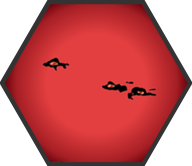
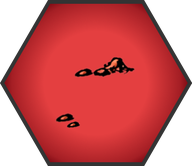
v0.21: Phil's redrawn plain and rough terrain tiles
plain-1 to plain-3 and rocky-1 are Phil's Affinity redraws (Plains1-3.png and
rough-terrain.png), fitted to the app's 192 x 166 tile format by the new
tools/fit-tile.py: cut on the middle of the dark border and masked to the hex.
Rough ground now stands out clearly from plain ground. The older rocky-2 and
rocky-3 are retired, since they looked too close to plain ground.

Claude-Session: https://claude.ai/code/session_01Xs8wjD3RBe7xarzalrymck

diff --git a/game.js b/game.js
@@ -1,21 +1,21 @@
 // Game screen: you (blue) against the AI (green). Renders the engine's view of the game and
 // turns taps into engine actions. No rules here; every option shown comes from the engine.
-import { RULES } from "./rules-config.js?v=0.20";
-import { mapById, seededRandom } from "./maps.js?v=0.20";
+import { RULES } from "./rules-config.js?v=0.21";
+import { mapById, seededRandom } from "./maps.js?v=0.21";
 import {
   newGame, applyAction, viewFor, reachableHexes, attackTargets, healTargets, harvestTargets,
   canSetUp, canPackUp, buildSites, buildableTypes, unitStats, livesAfterHit,
   firesBack, dropSites, factoryBuilds, upgradeOptions, crushingMoves, refreshKnowledge,
   STATE_FORMAT,
-} from "./engine.js?v=0.20";
-import { chooseAction, playout, DEFAULT_PERSONALITY } from "./ai.js?v=0.20";
-import { EVOLVED_PERSONALITIES } from "./ai-personalities.js?v=0.20";
-import { distance } from "./hex.js?v=0.20";
+} from "./engine.js?v=0.21";
+import { chooseAction, playout, DEFAULT_PERSONALITY } from "./ai.js?v=0.21";
+import { EVOLVED_PERSONALITIES } from "./ai-personalities.js?v=0.21";
+import { distance } from "./hex.js?v=0.21";
 import {
   renderBoard, boardBounds, loadTiles, preloadArt, unitImage, PLAYER_COLOURS,
-} from "./board.js?v=0.20";
-import { confirmDialog } from "./dialog.js?v=0.20";
-import { playSound, unlockSound, soundOn, setSoundOn } from "./sound.js?v=0.20";
+} from "./board.js?v=0.21";
+import { confirmDialog } from "./dialog.js?v=0.21";
+import { playSound, unlockSound, soundOn, setSoundOn } from "./sound.js?v=0.21";
 
 const HUMAN = 0;
 const AI_PLAYER = 1;
@@ -26,7 +26,7 @@ const EXTRAS_KEY = "mech-attack.game-extras";
 const RECENT_LIMIT = 8;
 // Generated maps are numbered from 1 up to this when picked at random.
 const NEW_MAP_RANGE = 99999;
-const ASSET_VERSION = "0.20";
+const ASSET_VERSION = "0.21";
 // Pause between AI actions you can see, and how long an explosion stays on screen.
 const AI_STEP_MS = 450;
 const EFFECT_MS = 500;

diff --git a/sw.js b/sw.js
@@ -1,7 +1,7 @@
 // Minimal offline-first service worker.
 // Bump the version in CACHE whenever you change the cached files, and keep ASSETS
 // in sync with the files the app needs to work offline.
-const CACHE = "mech-attack-v0.20";
+const CACHE = "mech-attack-v0.21";
 const UNIT_TYPES = [
   "scout-bike", "tank", "heavy-cannon", "artillery", "light-harvester", "light-medic",
 ];
@@ -11,7 +11,7 @@ const TOKEN_TYPES = [
   "attack-helicopter", "fighter", "infantry", "transporter",
 ];
 const TILES = [
-  "plain-1", "plain-2", "rocky-1", "rocky-2", "rocky-3", "mountain-1",
+  "plain-1", "plain-2", "plain-3", "rocky-1", "mountain-1",
   "chasm-n", "chasm-centre", "chasm-sw", "chasm-single",
 ];
 const SOUND_FILES = [
@@ -20,27 +20,27 @@ const SOUND_FILES = [
 const ASSETS = [
   ".",
   "index.html",
-  "styles.css?v=0.20",
-  "app.js?v=0.20",
-  "version.js?v=0.20",
-  "units.js?v=0.20",
-  "game.js?v=0.20",
-  "dialog.js?v=0.20",
-  "board.js?v=0.20",
-  "engine.js?v=0.20",
-  "ai.js?v=0.20",
-  "hex.js?v=0.20",
-  "maps.js?v=0.20",
-  "ai-personalities.js?v=0.20",
-  "rules-config.js?v=0.20",
-  "sound.js?v=0.20",
+  "styles.css?v=0.21",
+  "app.js?v=0.21",
+  "version.js?v=0.21",
+  "units.js?v=0.21",
+  "game.js?v=0.21",
+  "dialog.js?v=0.21",
+  "board.js?v=0.21",
+  "engine.js?v=0.21",
+  "ai.js?v=0.21",
+  "hex.js?v=0.21",
+  "maps.js?v=0.21",
+  "ai-personalities.js?v=0.21",
+  "rules-config.js?v=0.21",
+  "sound.js?v=0.21",
   "manifest.webmanifest",
   "icon.png",
   "favicon.png",
   "icon-maskable.png",
   "apple-touch-icon.png",
   "splash.jpg",
-  "tiles/tiles.json?v=0.20",
+  "tiles/tiles.json?v=0.21",
   ...TILES.map((t) => `tiles/${t}.png`),
   ...UNIT_TYPES.map((u) => `units/${u}.png`),
   ...TOKEN_TYPES.flatMap((u) => [`units/${u}-blue.svg`, `units/${u}-green.svg`]),

diff --git a/app.js b/app.js
@@ -1,9 +1,9 @@
 // Mech Attack - splash screen with a menu: play against the AI, or the units reference.
-import { VERSION, CHANGELOG } from "./version.js?v=0.20";
-import { GROUPS, STATS, UNITS, NOTES } from "./units.js?v=0.20";
-import { openGame, hasSavedGame, recentMaps, newMapId } from "./game.js?v=0.20";
-import { confirmDialog } from "./dialog.js?v=0.20";
-import { MAP_SIZES, MAP_SHAPES, shapeBlocks } from "./maps.js?v=0.20";
+import { VERSION, CHANGELOG } from "./version.js?v=0.21";
+import { GROUPS, STATS, UNITS, NOTES } from "./units.js?v=0.21";
+import { openGame, hasSavedGame, recentMaps, newMapId } from "./game.js?v=0.21";
+import { confirmDialog } from "./dialog.js?v=0.21";
+import { MAP_SIZES, MAP_SHAPES, shapeBlocks } from "./maps.js?v=0.21";
 
 // Register the service worker so the app is installable and works offline.
 // The relative path resolves correctly on the GitHub Pages /<slug>/ subpath.

diff --git a/evolve.js b/evolve.js
@@ -16,13 +16,13 @@
 // play the hand-tuned AI, and they are written out for the game to use.
 import { writeFileSync } from "node:fs";
 import { pathToFileURL } from "node:url";
-import { RULES } from "./rules-config.js?v=0.20";
-import { mapById, seededRandom, MAP_SHAPES } from "./maps.js?v=0.20";
+import { RULES } from "./rules-config.js?v=0.21";
+import { mapById, seededRandom, MAP_SHAPES } from "./maps.js?v=0.21";
 import {
   DEFAULT_PERSONALITY, randomPersonality, mutatePersonality, crossPersonalities,
   favouriteUnits,
-} from "./ai.js?v=0.20";
-import { runGame, withOverrides } from "./sim.js?v=0.20";
+} from "./ai.js?v=0.21";
+import { runGame, withOverrides } from "./sim.js?v=0.21";
 
 const DEFAULTS = { generations: 30, population: 16, games: 8, seed: 1 };
 // Generated maps in the pool (map-1 .. map-N of every shape), alongside fixed map 1.

diff --git a/sim.js b/sim.js
@@ -10,10 +10,10 @@
 // The first player alternates between games so neither colour always moves first.
 import { writeFileSync } from "node:fs";
 import { pathToFileURL } from "node:url";
-import { RULES } from "./rules-config.js?v=0.20";
-import { FIXED_MAP_1, buildMap, mapById } from "./maps.js?v=0.20";
-import { newGame, applyAction, viewFor, unitStats } from "./engine.js?v=0.20";
-import { chooseAction, DEFAULT_PERSONALITY } from "./ai.js?v=0.20";
+import { RULES } from "./rules-config.js?v=0.21";
+import { FIXED_MAP_1, buildMap, mapById } from "./maps.js?v=0.21";
+import { newGame, applyAction, viewFor, unitStats } from "./engine.js?v=0.21";
+import { chooseAction, DEFAULT_PERSONALITY } from "./ai.js?v=0.21";
 
 const DEFAULT_GAMES = 100;
 const DEFAULT_SEED = 1;

diff --git a/ai.js b/ai.js
@@ -11,8 +11,8 @@ import {
   reachableHexes, attackTargets, healTargets, harvestTargets, canUnload, canSetUp, canPackUp,
   buildSites, unitStats, unitsOf, defenceOf, livesAfterHit, firesBack, canHit, applyAction,
   viewFor, factoriesOf, factoryBuilds, upgradeOptions, canCapture, dropSites,
-} from "./engine.js?v=0.20";
-import { neighbourKeys, distance } from "./hex.js?v=0.20";
+} from "./engine.js?v=0.21";
+import { neighbourKeys, distance } from "./hex.js?v=0.21";
 
 // Score for an attack that costs no life now but sets up a combined attack this turn.
 const SETUP_ATTACK_SCORE = 1;

diff --git a/index.html b/index.html
@@ -13,7 +13,7 @@
   <link rel="preconnect" href="https://fonts.gstatic.com" crossorigin />
   <link rel="stylesheet"
     href="https://fonts.googleapis.com/css2?family=Orbitron:wght@600;800&display=swap" />
-  <link rel="stylesheet" href="styles.css?v=0.20" />
+  <link rel="stylesheet" href="styles.css?v=0.21" />
 </head>
 <body>
   <section id="splash" class="splash" aria-label="Mech Attack">
@@ -113,6 +113,6 @@
     </div>
   </div>
 
-  <script src="app.js?v=0.20" type="module"></script>
+  <script src="app.js?v=0.21" type="module"></script>
 </body>
 </html>

diff --git a/board.js b/board.js
@@ -1,7 +1,7 @@
 // Draws the game board as SVG from one player's view of the game, plus what the UI wants
 // highlighted. No rules here: everything shown comes from the engine's view.
-import { parseKey, toPixel } from "./hex.js?v=0.20";
-import { unitStats, defenceOf } from "./engine.js?v=0.20";
+import { parseKey, toPixel } from "./hex.js?v=0.21";
+import { unitStats, defenceOf } from "./engine.js?v=0.21";
 
 // Hex corner radius in SVG units. Tiles are drawn 2 x HEX_SIZE wide.
 export const HEX_SIZE = 50;

diff --git a/version.js b/version.js
@@ -1,8 +1,15 @@
-export const VERSION = "v0.20";
+export const VERSION = "v0.21";
 
 // Newest first. Bump VERSION and prepend an entry on EVERY publish, so the live
 // app always shows exactly what shipped. Dates are YYYY-MM-DD.
 export const CHANGELOG = [
+  {
+    version: "v0.21",
+    date: "2026-10-29",
+    notes: [
+      "New plain and rough terrain art redrawn by Phil, so rough ground stands out clearly from plain ground.",
+    ],
+  },
   {
     version: "v0.20",
     date: "2026-10-29",

diff --git a/tools/art-preview.html b/tools/art-preview.html
@@ -128,9 +128,8 @@
   const BUILT_IN_TILES = [
     { file: "plain-1.png", terrain: "plain" },
     { file: "plain-2.png", terrain: "plain" },
+    { file: "plain-3.png", terrain: "plain" },
     { file: "rocky-1.png", terrain: "rocky" },
-    { file: "rocky-2.png", terrain: "rocky" },
-    { file: "rocky-3.png", terrain: "rocky" },
     { file: "mountain-1.png", terrain: "mountain" },
     { file: "chasm-n.png", terrain: "chasm" },
     { file: "chasm-centre.png", terrain: "chasm" },

diff --git a/engine.js b/engine.js
@@ -15,7 +15,7 @@
 //   crystals they have seen before.
 import {
   neighbourKeys, distance, lineOfSight, cheapestPaths, pathTo, parseKey, key, DIRECTIONS,
-} from "./hex.js?v=0.20";
+} from "./hex.js?v=0.21";
 
 // Factories, infantry and transporters (format 6):
 // - Every factory is a unit. Each player owns a home factory (players[p].factoryId); bigger

diff --git a/maps.js b/maps.js
@@ -5,7 +5,7 @@
 import {
   key, clusterCentre, clusterHexes, DIRECTION_NAMES, cheapestPaths, distance, neighbourKeys,
   toPixel,
-} from "./hex.js?v=0.20";
+} from "./hex.js?v=0.21";
 
 // Fixed map 1: 12 clusters, 84 hexes, about 11 hexes wide and 11 tall.
 // Paired clusters (point-reflected through the middle of the map) have the same number of
